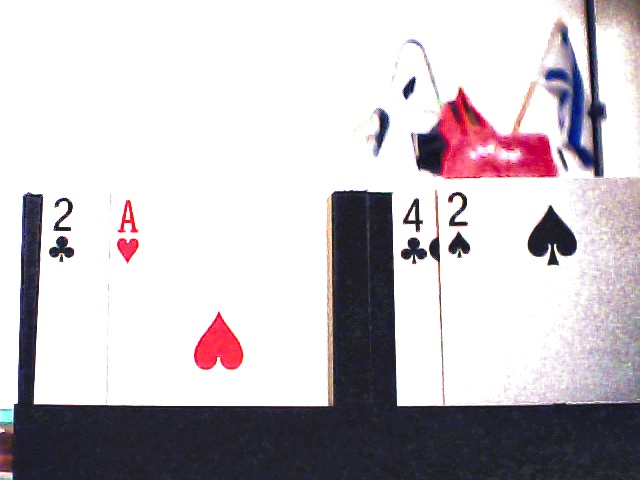
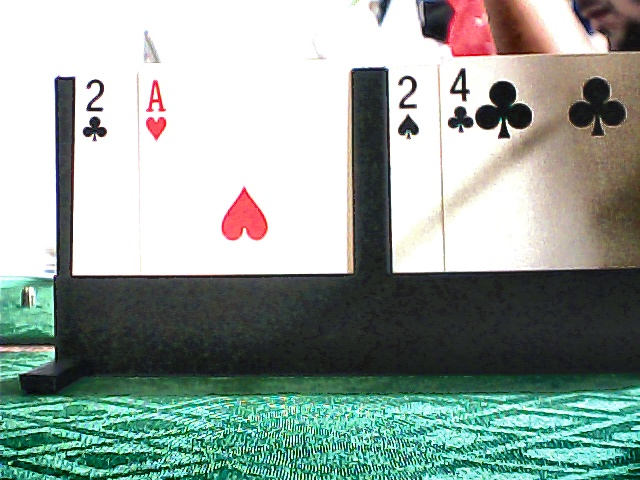
updated train.py so that it now is compatible with different numbers of players.

diff --git a/src/training/train.py b/src/training/train.py
@@ -416,7 +416,7 @@ def train_deep_cfr(num_iterations=1000, traversals_per_iteration=200,
     
     return agent, losses, profits
 
-def continue_training(checkpoint_path, additional_iterations=1000, 
+def continue_training(num_players, checkpoint_path, additional_iterations=1000, 
                      traversals_per_iteration=200, save_dir="models", 
                      log_dir="logs/deepcfr_continued", verbose=False, debug_training=False,
                      checkpoint_interval=1000, evaluation_interval=10,
@@ -453,7 +453,7 @@ def continue_training(checkpoint_path, additional_iterations=1000,
     )
     
     # Initialize the agent
-    num_players = 6  # Assuming 6 players as in the original training
+    # num_players can now be varied (not always 6 players)
     player_id = 0    # Assuming player_id 0 as in the original training
     agent = DeepCFRAgent(player_id=player_id, num_players=num_players, 
                           device='cuda' if torch.cuda.is_available() else 'cpu')
@@ -596,7 +596,7 @@ def continue_training(checkpoint_path, additional_iterations=1000,
     
     return agent, losses, profits
 
-def train_against_checkpoint(checkpoint_path, additional_iterations=1000, 
+def train_against_checkpoint(num_players, checkpoint_path, additional_iterations=1000, 
                            traversals_per_iteration=200, save_dir="models", 
                            log_dir="logs/deepcfr_selfplay", verbose=False, debug_training=False,
                            progress_interval=100, checkpoint_interval=1000,
@@ -633,14 +633,14 @@ def train_against_checkpoint(checkpoint_path, additional_iterations=1000,
     
     # Create opponent agents for all positions
     opponent_agents = []
-    for pos in range(6):
+    for pos in range(num_players):
         # Create a new agent for each position
-        pos_agent = DeepCFRAgent(player_id=pos, num_players=6, device=device)
+        pos_agent = DeepCFRAgent(player_id=pos, num_players=num_players, device=device)
         pos_agent.load_model(checkpoint_path)
         opponent_agents.append(pos_agent)
     
     # Continue the learning agent from the same checkpoint used for the fixed opponents.
-    learning_agent = DeepCFRAgent(player_id=0, num_players=6, device=device)
+    learning_agent = DeepCFRAgent(player_id=0, num_players=num_players, device=device)
     learning_agent.load_model(checkpoint_path)
     learning_agent.debug_training = debug_training
     starting_iteration = learning_agent.iteration_count + 1
@@ -667,7 +667,7 @@ def train_against_checkpoint(checkpoint_path, additional_iterations=1000,
     initial_profit_random = evaluate_against_random(
         learning_agent,
         num_games=random_eval_games,
-        num_players=6,
+        num_players=num_players,
         writer=writer,
         iteration=starting_iteration - 1,
         metric_prefix="Evaluation/Random",
@@ -676,8 +676,8 @@ def train_against_checkpoint(checkpoint_path, additional_iterations=1000,
     print(f"Initial average profit vs random: {initial_profit_random:.2f}")
     writer.add_scalar('Performance/ProfitVsRandom', initial_profit_random, starting_iteration - 1)
     
-    opponent_wrappers = [None] * 6
-    for pos in range(6):
+    opponent_wrappers = [None] * num_players
+    for pos in range(num_players):
         if pos != learning_agent.player_id:
             opponent_wrappers[pos] = _PerspectiveAgentWrapper(opponent_agents[pos])
 
@@ -701,10 +701,10 @@ def train_against_checkpoint(checkpoint_path, additional_iterations=1000,
 
         # Run traversals to collect data
         for t in range(traversals_per_iteration):
-            button_pos = t % 6
+            button_pos = t % num_players
 
             state = pkrs.State.from_seed(
-                n_players=6,
+                n_players=num_players,
                 button=button_pos,
                 sb=1,
                 bb=2,
@@ -748,7 +748,7 @@ def train_against_checkpoint(checkpoint_path, additional_iterations=1000,
             last_profit_random = evaluate_against_random(
                 learning_agent,
                 num_games=random_eval_games,
-                num_players=6,
+                num_players=num_players,
                 writer=writer,
                 iteration=iteration,
                 metric_prefix="Evaluation/Random",
@@ -823,8 +823,11 @@ def evaluate_against_checkpoint_agents(
     Evaluate the trained agent against opponent agents.
     Each agent will receive and process observations from its own perspective.
     """
-    opponent_wrappers = [None] * 6
-    for pos in range(6):
+    num_players = len(opponent_agents)
+    print("NUM_PLAYERS WHEN EVALUATED", num_players)
+    
+    opponent_wrappers = [None] * num_players
+    for pos in range(num_players):
         if pos != agent.player_id:
             opponent_wrappers[pos] = _PerspectiveAgentWrapper(opponent_agents[pos])
 
@@ -833,6 +836,7 @@ def evaluate_against_checkpoint_agents(
         opponent_wrappers,
         num_games=num_games,
         seed_start=10000,
+        num_players=num_players,
         strict=True,
         label="evaluation vs checkpoint",
         print_warnings=True,
@@ -862,7 +866,7 @@ def evaluate_against_agent(agent, opponent_agent, num_games=100):
     
     return evaluate_against_checkpoint_agents(agent, opponent_agents, num_games)
 
-def train_with_mixed_checkpoints(checkpoint_dir, training_model_prefix="*checkpoint_iter_",
+def train_with_mixed_checkpoints(num_players, checkpoint_dir, training_model_prefix="*checkpoint_iter_",
                            additional_iterations=1000, traversals_per_iteration=200,
                            save_dir="models", log_dir="logs/deepcfr_mixed",
                            refresh_interval=1000, num_opponents=5, verbose=False,
@@ -911,7 +915,7 @@ def train_with_mixed_checkpoints(checkpoint_dir, training_model_prefix="*checkpo
     device = 'cuda' if torch.cuda.is_available() else 'cpu'
     
     # Initialize the learning agent
-    learning_agent = DeepCFRAgent(player_id=0, num_players=6, device=device)
+    learning_agent = DeepCFRAgent(player_id=0, num_players=num_players, device=device)
     learning_agent.debug_training = debug_training
     starting_iteration = 1
     
@@ -944,14 +948,14 @@ def train_with_mixed_checkpoints(checkpoint_dir, training_model_prefix="*checkpo
             num_opponents=num_opponents,
             device=device,
             player_id=learning_agent.player_id,
-            num_players=6,
+            num_players=num_players,
             allow_random_fallback=allow_random_fallback,
         )
         return opponent_agents
 
     def wrap_opponents(opponent_agents):
-        opponent_wrappers = [None] * 6
-        for pos in range(6):
+        opponent_wrappers = [None] * num_players
+        for pos in range(num_players):
             if pos != learning_agent.player_id and opponent_agents[pos] is not None:
                 opponent_wrappers[pos] = _PerspectiveAgentWrapper(opponent_agents[pos])
         return opponent_wrappers
@@ -975,7 +979,7 @@ def train_with_mixed_checkpoints(checkpoint_dir, training_model_prefix="*checkpo
     initial_profit_random = evaluate_against_random(
         learning_agent,
         num_games=random_eval_games,
-        num_players=6,
+        num_players=num_players,
         writer=writer,
         iteration=starting_iteration - 1,
         metric_prefix="Evaluation/Random",
@@ -1010,9 +1014,9 @@ def train_with_mixed_checkpoints(checkpoint_dir, training_model_prefix="*checkpo
             opponent_wrappers = wrap_opponents(opponent_agents)
 
         for t in range(traversals_per_iteration):
-            button_pos = t % 6
+            button_pos = t % num_players
             state = pkrs.State.from_seed(
-                n_players=6,
+                n_players=num_players,
                 button=button_pos,
                 sb=1,
                 bb=2,
@@ -1055,7 +1059,7 @@ def train_with_mixed_checkpoints(checkpoint_dir, training_model_prefix="*checkpo
             last_profit_random = evaluate_against_random(
                 learning_agent,
                 num_games=random_eval_games,
-                num_players=6,
+                num_players=num_players,
                 writer=writer,
                 iteration=iteration,
                 metric_prefix="Evaluation/Random",
@@ -1176,6 +1180,7 @@ def main(argv=None):
     if args.mixed:
         print(f"Starting mixed checkpoint training with models from: {args.checkpoint_dir}")
         agent, losses, profits, profits_vs_checkpoints = train_with_mixed_checkpoints(
+            num_players=args.num_opponents + 1, # Added so you can continue training with models trained on less than 6 players
             checkpoint_dir=args.checkpoint_dir,
             training_model_prefix=args.model_prefix,
             additional_iterations=args.iterations,
@@ -1199,6 +1204,7 @@ def main(argv=None):
     elif args.checkpoint and args.self_play:
         print(f"Starting self-play training against checkpoint: {args.checkpoint}")
         agent, losses, profits = train_against_checkpoint(
+            num_players=args.num_opponents + 1, # Added so you can continue training with models trained on less than 6 players
             checkpoint_path=args.checkpoint,
             additional_iterations=args.iterations,
             traversals_per_iteration=args.traversals,
@@ -1215,6 +1221,7 @@ def main(argv=None):
     elif args.checkpoint:
         print(f"Continuing training from checkpoint: {args.checkpoint}")
         agent, losses, profits = continue_training(
+            num_players=args.num_opponents + 1,
             checkpoint_path=args.checkpoint,
             additional_iterations=args.iterations,
             traversals_per_iteration=args.traversals,
@@ -1236,7 +1243,7 @@ def main(argv=None):
         agent, losses, profits = train_deep_cfr(
             num_iterations=args.iterations,
             traversals_per_iteration=args.traversals,
-            num_players=6,
+            num_players=args.num_opponents + 1,
             player_id=0,
             save_dir=args.save_dir,
             log_dir=args.log_dir,

diff --git a/src/backend/agents.py b/src/backend/agents.py
@@ -34,14 +34,32 @@ class Agents:
         
         player_num_path = str(self.n_players) + "_player"
         
-        base_path = f"models/standard/{player_num_path}/checkpoint_mixed"
+        # base_path = f"models/standard/{player_num_path}/checkpoint_mixed"
+        # potential_model_paths = [
+        #     base_path + '/*checkpoint_iter_mixed_iter_33600.pt',
+        #     base_path + '/*checkpoint_iter_mixed_iter_33700.pt',
+        #     base_path + '/*checkpoint_iter_mixed_iter_33800.pt',
+        #     base_path + '/*checkpoint_iter_mixed_iter_33900.pt',
+        #     base_path + '/*checkpoint_iter_mixed_iter_400000.pt',
+        # ]
+        
+        base_path = f"models/standard/{player_num_path}/selfplay_from_20000"
         potential_model_paths = [
-            base_path + '/*checkpoint_iter_mixed_iter_33600.pt',
-            base_path + '/*checkpoint_iter_mixed_iter_33700.pt',
-            base_path + '/*checkpoint_iter_mixed_iter_33800.pt',
-            base_path + '/*checkpoint_iter_mixed_iter_33900.pt',
-            base_path + '/*checkpoint_iter_mixed_iter_400000.pt',
+            base_path + '/selfplay_checkpoint_iter_26000.pt',
+            base_path + '/selfplay_checkpoint_iter_27000.pt',
+            base_path + '/selfplay_checkpoint_iter_28000.pt',
+            base_path + '/selfplay_checkpoint_iter_29000.pt',
+            base_path + '/selfplay_checkpoint_iter_30000.pt',
         ]
+        
+        # base_path = f"models/standard/{player_num_path}/phase1_20k"
+        # potential_model_paths = [
+        #     base_path + '/checkpoint_iter_16000.pt',
+        #     base_path + '/checkpoint_iter_17000.pt',
+        #     base_path + '/checkpoint_iter_18000.pt',
+        #     base_path + '/checkpoint_iter_19000.pt',
+        #     base_path + '/checkpoint_iter_20000.pt',
+        # ]
 
         # get get only 'num_agents' number of model paths
         model_paths = potential_model_paths[:self.num_agents]

diff --git a/scripts/playing_card_detection/detection_utils.py b/scripts/playing_card_detection/detection_utils.py
@@ -27,7 +27,7 @@ def preprocess_image(image):
     model has an easier time detecting cards.
     """
     # brighten the image
-    image = cv2.convertScaleAbs(image, alpha=2.3, beta=30)
+    image = cv2.convertScaleAbs(image, alpha=1.3, beta=30)
 
     # boost local contrast (helps corner rank/suit stand out)
     lab = cv2.cvtColor(image, cv2.COLOR_BGR2LAB)

diff --git a/readme.md b/readme.md
@@ -31,9 +31,9 @@ Step 1:
 python -m src.training.train \
  --iterations 20000 \
  --traversals 200 \
- --save-dir models/standard/4_player/phase1_20k \
- --log-dir logs/standard/4_player/phase1_20k\
- --num-opponents 3 
+ --save-dir models/standard/5_player/phase1_20k \
+ --log-dir logs/standard/5_player/phase1_20k\
+ --num-opponents 4 
 
 Step 2:
 python -m src.training.train \
@@ -42,7 +42,7 @@ python -m src.training.train \
  --iterations 10000 \
  --traversals 400 \
  --save-dir models/standard/4_player/selfplay_from_20000 \
- --log-dir logs/standard/4_player/selfplay_from_3000 \
+ --log-dir logs/standard/4_player/selfplay_from_20000 \
  --num-opponents 3
 
 Step 3:
@@ -50,7 +50,7 @@ python -m src.training.train \
  --checkpoint models/standard/4_player/selfplay_from_20000/selfplay_checkpoint_iter_30000.pt \
  --mixed \
  --checkpoint-dir models/standard/4_player \
- --model-prefix "\*checkpoint_iter*" \
+ --model-prefix "selfplay_checkpoint_iter" \
  --refresh-interval 1000 \
  --num-opponents 3 \
  --iterations 10000 \
